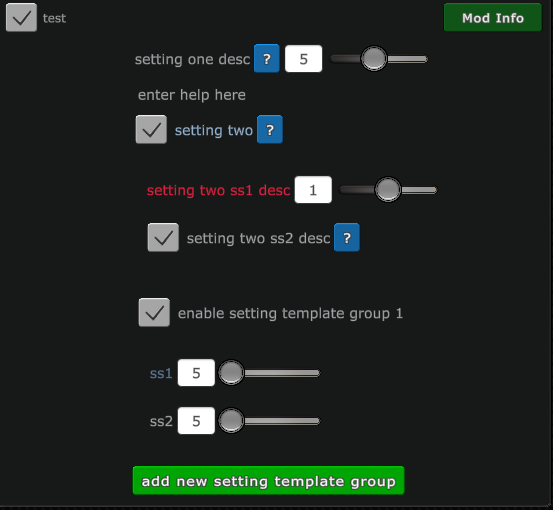
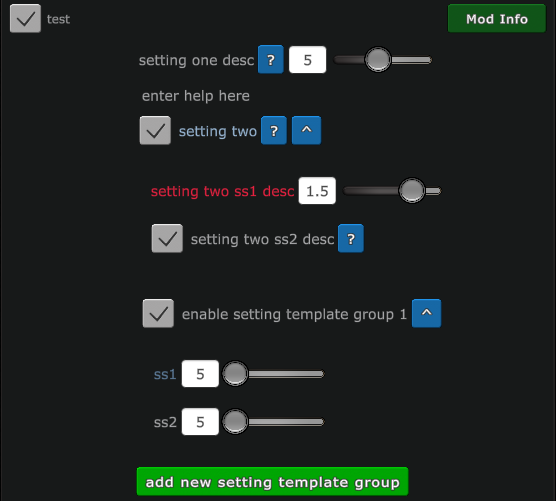
Add files via upload
added collapsible menu for checkboxes in Client_PresentConfigureUI and bug fixes

diff --git a/Auto_Settings_Files_Documentation/index.html b/Auto_Settings_Files_Documentation/index.html
@@ -167,7 +167,11 @@ function setupSlideshows() {
 		</ul>
 
 		<h1>Examples</h1>
-		<p>See <a href="https://github.com/DanWaLes/DanWaLes.github.io/blob/master/Auto_Settings_Files_Documentation/code/__settings.lua">code/__settings.lua</a></p>
+		<ul>
+			<li><a href="https://github.com/DanWaLes/DanWaLes.github.io/blob/master/Auto_Settings_Files_Documentation/code/__settings.lua">code/__settings.lua</a></li>
+			<li><a href="https://github.com/DanWaLes/Warzone/tree/master/mymods/Custom%20Card%20Package%202/__settings.lua">Custom Card Package 2</a></li>
+		</ul>
+
 		<h2>Screenshots</h2>
 		<h3>Client_PresentConfigureUI.lua</h3>
 		<div class="slideshow">
